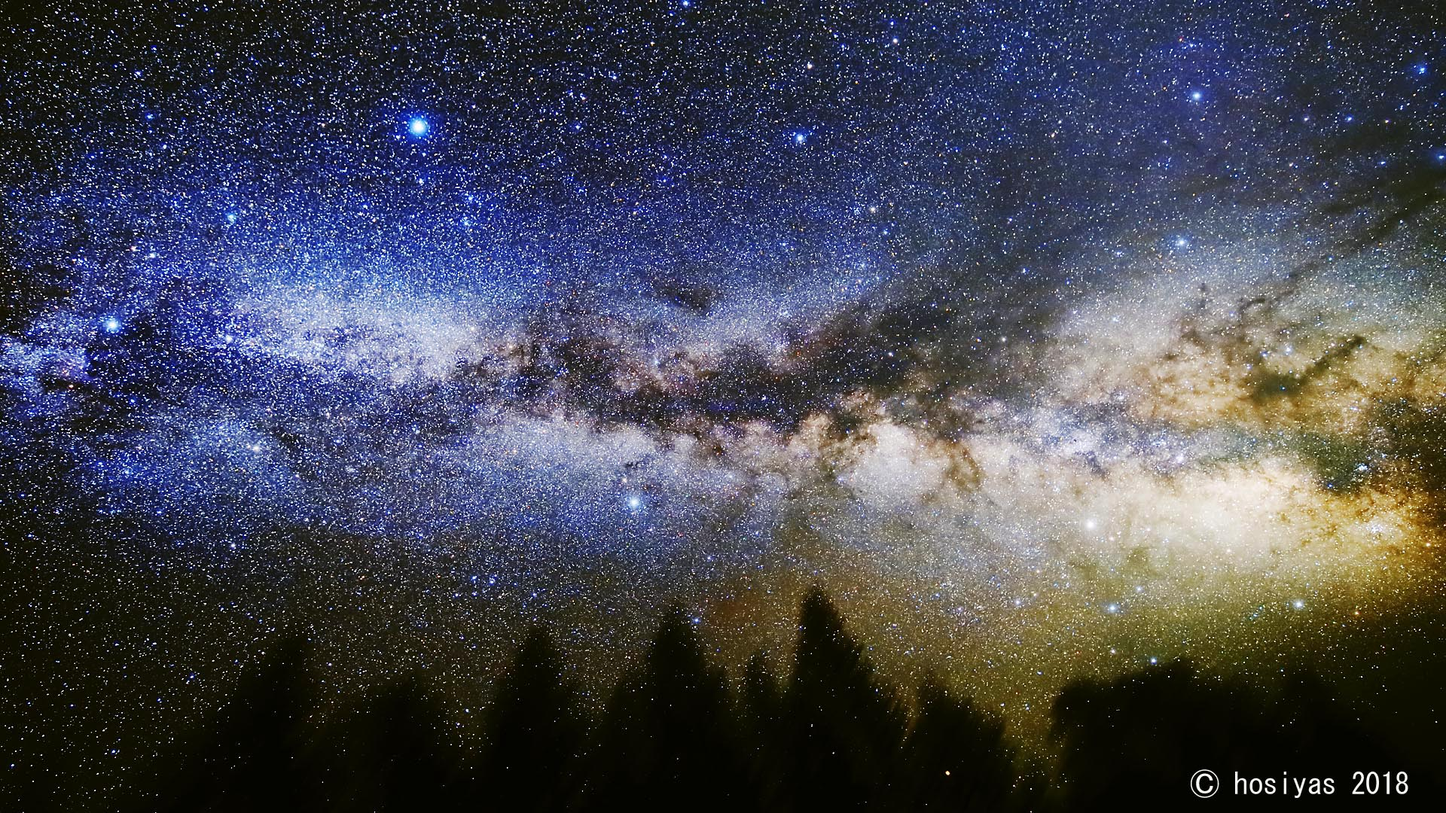
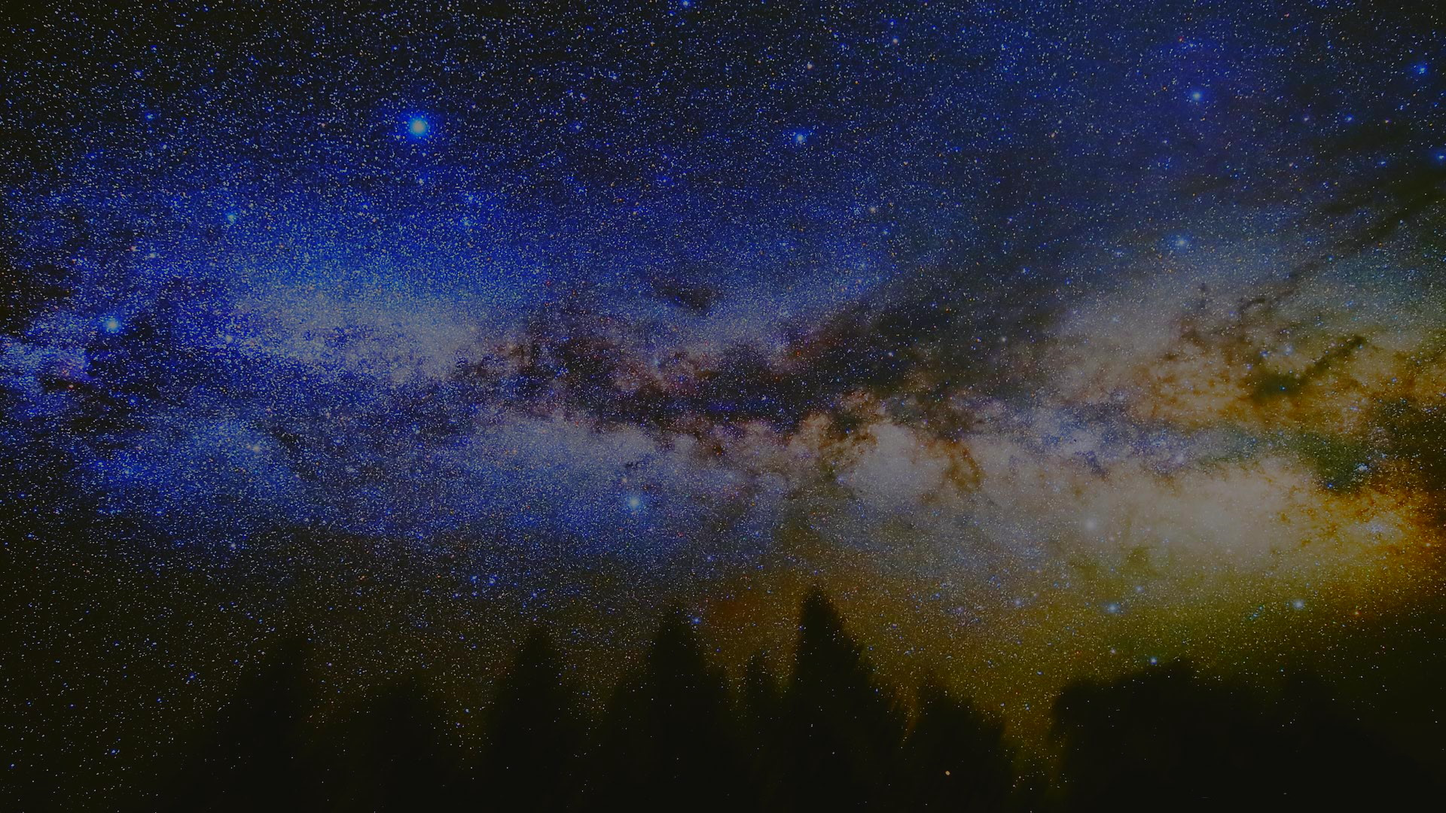
夢　revised.

diff --git a/brother/css/夢.css b/brother/css/夢.css
@@ -15,8 +15,8 @@
   --i-g-top: url("https://shirasukuu.github.io/brother/pics/夢/人形3.jpg");
 
 
-  --i-a-front: url("https://shirasukuu.github.io/brother/pics/夢/ラスコー.jpg");
-  --i-a-right: url("https://shirasukuu.github.io/brother/pics/夢/地図.jpg");
+  --i-a-front: url("https://shirasukuu.github.io/brother/pics/夢/地図.jpg");
+  --i-a-right: url("https://shirasukuu.github.io/brother/pics/夢/ラスコー.jpg");
   --i-a-top: url("https://shirasukuu.github.io/brother/pics/夢/秘宝.jpg");
 
 }
@@ -27,7 +27,7 @@ body {
     color: white;
 
       background-image:
-          radial-gradient(ellipse at center, rgba(255, 255, 255, 0.1) 30%, rgba(255, 255, 255, 0.5) 70%, rgba(255, 255, 255, 0.7) 100%),
+          radial-gradient(ellipse at center, rgba(0, 0, 0, 0.1) 30%, rgba(255, 255, 255, 0.5) 70%, rgba(255, 255, 255, 0.7) 100%),
           url("https://shirasukuu.github.io/brother/pics/夢/銀河.jpg");
       background-position:
           top 0% left 0%,
@@ -39,7 +39,7 @@ body {
           no-repeat,
           no-repeat;
 }
-.page {
+/* .page {
   background-color: black;
   color: white;
 
@@ -62,16 +62,22 @@ body {
     padding-top: 2rem;
     padding-left: 2rem;
     padding-right: 2rem;
-}
+} */
 
 a{
+  position: absolute;
+  bottom: 0%; left:30%;
   color: white;
+}
+
+.g-front a{
+  font-size: 0.5rem;
 }
 
 
 cube-city{
   width: var(--cs); height: var(--cs);
-  position: absolute; top: 100px; left: 200px;
+  position: absolute; top: 20%; left: 15%;
 
   /* background-color: lightblue; */
 
@@ -94,7 +100,7 @@ cube-city{
 
 cube-garden{
   width: var(--cs); height: var(--cs);
-  position: absolute; top: 300px; left: 500px;
+  position: absolute; top: 35%; left: 45%;
 
   /* background-color: lightblue; */
 
@@ -117,7 +123,7 @@ cube-garden{
 
 cube-adventure{
   width: var(--cs); height: var(--cs);
-  position: absolute; top: 100px; left: 800px;
+  position: absolute; top: 20%; right: 5%;
 
   /* background-color: lightblue; */
 
@@ -147,7 +153,8 @@ front, right-side, top{
 
 .front,
 front{
-  background-color: pink;
+  /* background-color: pink; */
+  /* font-size: 0.6; */
   transform:
   translate3d(0px, 0px, var(--hs));
 }
@@ -155,19 +162,19 @@ front{
 .c-front{
   background-image: var(--i-c-front);
   background-size: cover;
-  opacity: 0.7;
+  opacity: 0.99;
 }
 
 .g-front{
   background-image: var(--i-g-front);
   background-size: cover;
-  opacity: 0.7;
+  opacity: 0.99;
 }
 
 .a-front{
   background-image: var(--i-a-front);
   background-size: cover;
-  opacity: 0.7;
+  opacity: 0.99;
 }
 
 .right-side,

diff --git a/brother/夢.html b/brother/夢.html
@@ -46,19 +46,19 @@
     <cube-city>
       <right-side class="c-right"></right-side>
       <top class="c-top"></top>
-      <front class="c-front"></front>
+      <front class="c-front"><a ref="#">都市国家　グルーへ</a></front>
     </cube-city>
 
     <cube-garden>
       <right-side class="g-right"></right-side>
       <top class="g-top"></top>
-      <front class="g-front"></front>
+      <front class="g-front"><a href="#">庭園の風へ</a></front>
     </cube-garden>
 
     <cube-adventure>
       <right-side class="a-right"></right-side>
       <top class="a-top"></top>
-      <front class="a-front"></front>
+      <front class="a-front"><a href="#">冒険の旅へ</a></front>
     </cube-adventure>
 
     <!-- <cube-city>
